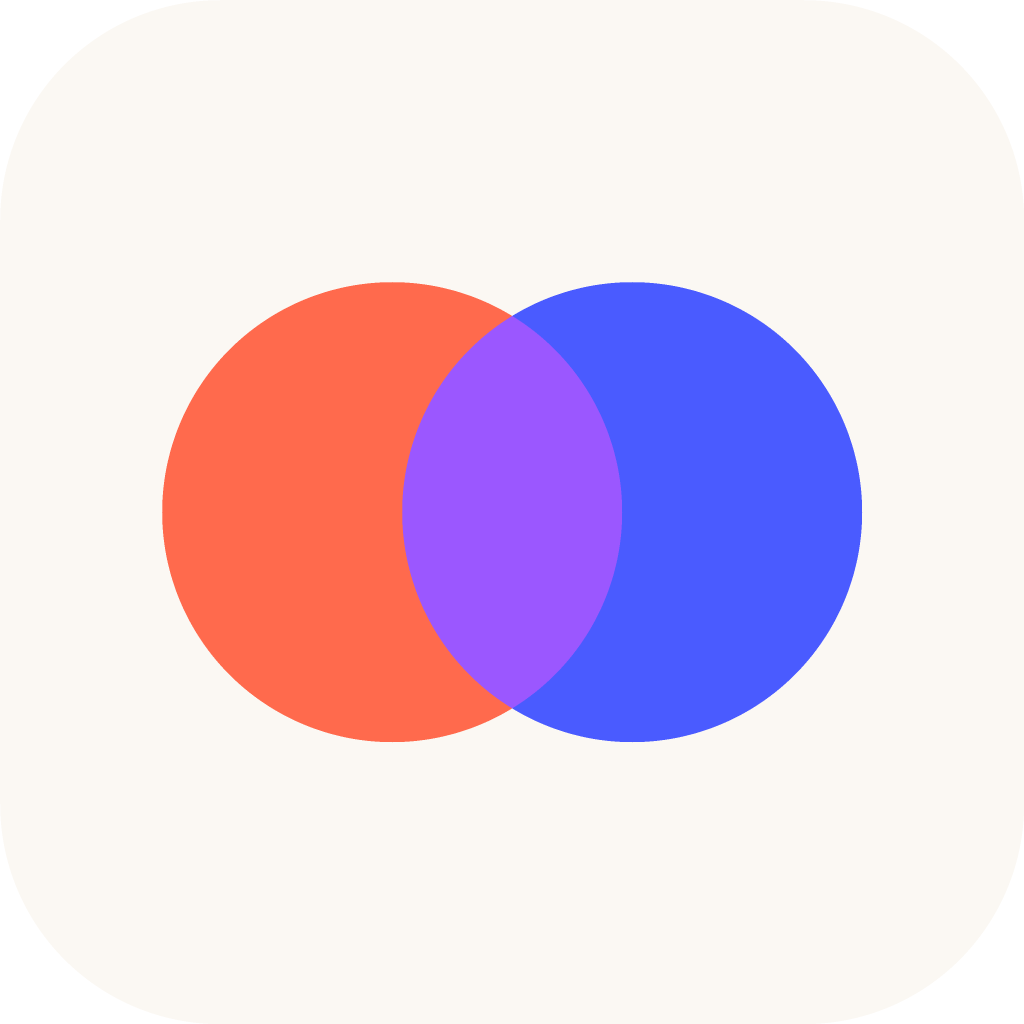
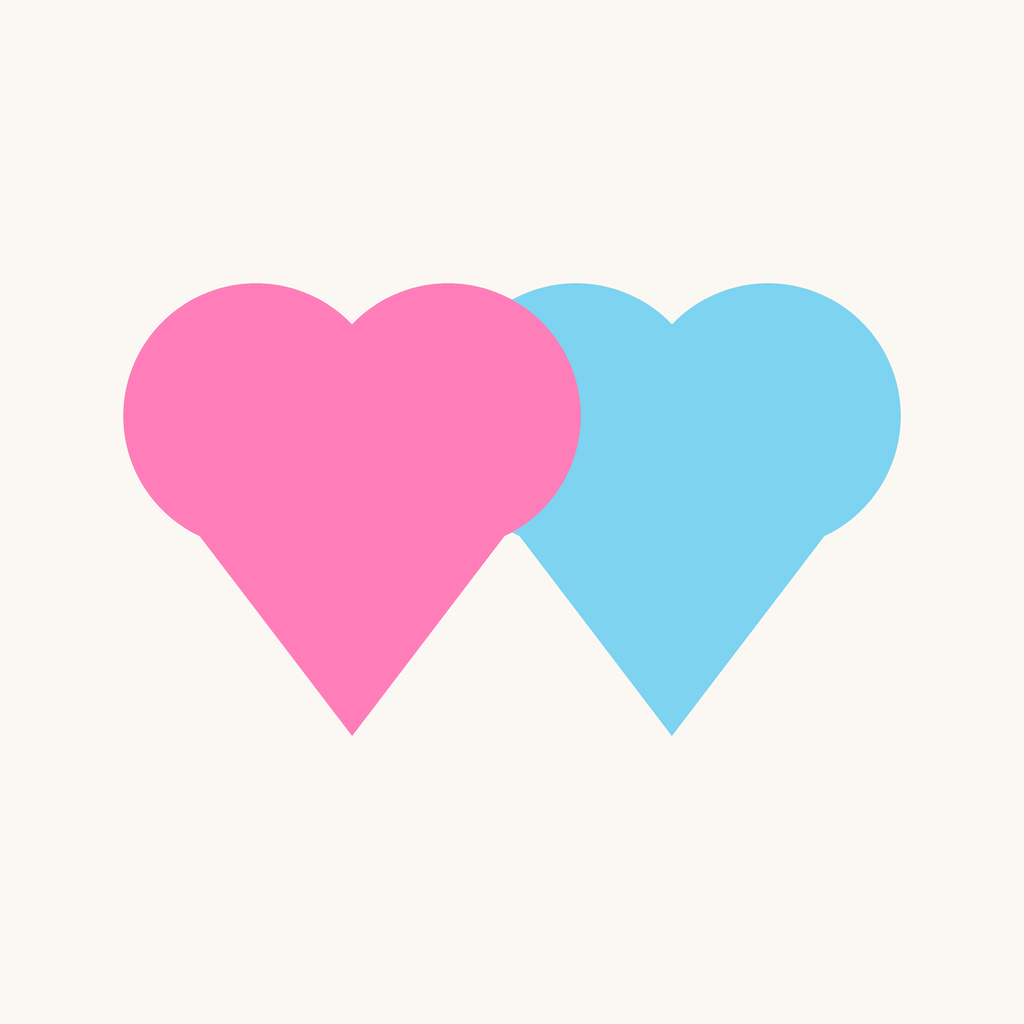
feat(ui): 하트 앱 아이콘 + 홈 배경 전체화면 개편
앱 아이콘
- icon/favicon/splash/adaptive(foreground·background·monochrome)를
  새 하트 마크로 재생성. 앱 안 DoublyLogo 와 같은 구성(원2+삼각)이라
  아이콘과 인앱 마크가 일치한다

홈 화면
- 배경화면이 상단 220px 카드 안에만 보이던 것을 화면 전체로 확장.
  고정 레이어라 피드를 스크롤해도 배경이 남아 '벽지'처럼 보인다
- 스크림 그라디언트(위 옅게→아래 진하게)로 사진 밝기와 무관하게
  흰 글씨 대비를 보장하고, 카드가 배경에서 떠 보이게 한다
- 히어로는 카드 프레임을 벗고 배경 위에 직접 얹힌다
- 배경 위로 올라온 텍스트(혼자 시작 안내)는 흰색 고정, 빈 상태는
  카드에 얹어 가독성 확보

Claude-Session: https://claude.ai/code/session_01Wiu3T5wvYkS3Bnesn86XRf

Changed region(s): [[0.0938, 0.25, 0.9062, 0.75]]

diff --git a/frontend/src/screens/home/HomeScreen.tsx b/frontend/src/screens/home/HomeScreen.tsx
@@ -6,7 +6,6 @@ import {
   Alert,
   FlatList,
   Image,
-  ImageBackground,
   Modal,
   Pressable,
   StyleSheet,
@@ -49,6 +48,17 @@ type Props = CompositeScreenProps<
 
 // Ink 히어로 — 데이터(코랄/인디고 아바타 + 바이올렛 겹침)가 돋보이게 절제된 배경
 const GRADIENT: [string, string, string] = ['#1B1D3A', '#14162B', '#0D0F22'];
+
+/**
+ * 배경 위 스크림 — 위(히어로)는 옅게 두어 배경 사진이 살고,
+ * 아래(피드)로 갈수록 진해져 카드가 배경에서 떠 보인다.
+ * 사진 밝기와 무관하게 흰 글씨 대비를 보장하려고 검정 기반으로 고정한다(테마 무관).
+ */
+const SCRIM: [string, string, string] = [
+  'rgba(0,0,0,0.28)',
+  'rgba(0,0,0,0.45)',
+  'rgba(0,0,0,0.70)',
+];
 const QUICK_EMOJIS = ['❤', '🥰', '😆', '👍', '💪'];
 
 function daysTogether(connectedAt?: string | null): number {
@@ -287,18 +297,8 @@ export function HomeScreen({ navigation }: Props) {
   // ---- 상단 대시보드 헤더 ----
   const hero = (
     <View>
-      <View style={styles.heroWrap}>
-        {bgUrl ? (
-          <ImageBackground source={{ uri: bgUrl }} style={styles.hero} imageStyle={styles.heroImg}>
-            <View style={styles.heroOverlay} />
-            {renderHeroContent()}
-          </ImageBackground>
-        ) : (
-          <LinearGradient colors={GRADIENT} style={styles.hero} start={{ x: 0, y: 0 }} end={{ x: 1, y: 1 }}>
-            {renderHeroContent()}
-          </LinearGradient>
-        )}
-      </View>
+      {/* 배경은 화면 전체를 채우므로(아래 return 참고) 여기서는 내용만 얹는다 */}
+      {renderHeroContent()}
 
       {connected ? (
         <View style={styles.actionRow}>
@@ -390,7 +390,33 @@ export function HomeScreen({ navigation }: Props) {
   }
 
   return (
-    <SafeAreaView style={styles.safe} edges={['top']}>
+    <View style={styles.root}>
+      {/*
+        배경화면을 화면 전체에 깐다 — 예전에는 상단 220px 카드 안에만 보였다.
+        고정 레이어라 피드를 스크롤해도 배경은 그대로 있어 '벽지' 처럼 보인다.
+      */}
+      {bgUrl ? (
+        <Image source={{ uri: bgUrl }} style={StyleSheet.absoluteFill} resizeMode="cover" />
+      ) : (
+        <LinearGradient
+          colors={GRADIENT}
+          style={StyleSheet.absoluteFill}
+          start={{ x: 0, y: 0 }}
+          end={{ x: 1, y: 1 }}
+        />
+      )}
+      {/*
+        스크림 — 사진이 밝든 어둡든 흰 글씨(히어로)가 읽혀야 하고, 아래로 갈수록
+        진해져 카드가 배경에서 분리돼 보인다. 터치는 통과시킨다.
+      */}
+      <LinearGradient
+        colors={SCRIM}
+        locations={[0, 0.4, 1]}
+        style={StyleSheet.absoluteFill}
+        pointerEvents="none"
+      />
+
+      <SafeAreaView style={styles.safe} edges={['top']}>
       <FlatList
         data={connected ? items : []}
         keyExtractor={itemKey}
@@ -404,11 +430,14 @@ export function HomeScreen({ navigation }: Props) {
         ListHeaderComponent={hero}
         ListEmptyComponent={
           feedLoading ? null : connected ? (
-            <EmptyState
-              icon="timeline-text-outline"
-              title="아직 기록이 없어요"
-              description={'운동·식단·맛집을 기록하거나\n첫 일상을 남겨보세요!'}
-            />
+            // 배경 사진 위에서도 읽히도록 카드에 얹는다 (EmptyState 는 테마색 텍스트다)
+            <Card elevation="sm" style={styles.emptyCard}>
+              <EmptyState
+                icon="timeline-text-outline"
+                title="아직 기록이 없어요"
+                description={'운동·식단·맛집을 기록하거나\n첫 일상을 남겨보세요!'}
+              />
+            </Card>
           ) : (
             /* 미연결 첫인상 — 연결 카드 아래가 텅 비어 보이지 않게, 혼자서도
                시작할 수 있는 행동을 안내한다 (FAB 액션시트와 같은 목적지) */
@@ -474,7 +503,8 @@ export function HomeScreen({ navigation }: Props) {
           </Pressable>
         </Pressable>
       </Modal>
-    </SafeAreaView>
+      </SafeAreaView>
+    </View>
   );
 }
 
@@ -497,15 +527,13 @@ function CoupleProfile({ name, imageUrl, done, color }: { name: string; imageUrl
 }
 
 const styles = StyleSheet.create({
-  safe: { flex: 1, backgroundColor: colors.background },
+  // 배경(사진/그라디언트)이 화면 전체를 채우므로 그 위 레이어는 모두 투명이다
+  root: { flex: 1, backgroundColor: colors.background },
+  safe: { flex: 1, backgroundColor: 'transparent' },
   list: { paddingHorizontal: spacing.lg, paddingBottom: spacing.xl },
 
-  // 히어로
-  heroWrap: { marginTop: spacing.sm, borderRadius: radius.xl, overflow: 'hidden' },
-  hero: { minHeight: 220 },
-  heroImg: { borderRadius: radius.xl },
-  heroOverlay: { position: 'absolute', top: 0, left: 0, right: 0, bottom: 0, backgroundColor: 'rgba(0,0,0,0.28)' },
-  heroContent: { padding: spacing.lg },
+  // 히어로 — 카드 프레임 없이 배경 위에 바로 얹힌다
+  heroContent: { paddingHorizontal: spacing.xs, paddingTop: spacing.sm, paddingBottom: spacing.lg },
   topBar: { flexDirection: 'row', justifyContent: 'space-between', alignItems: 'center' },
   profileBtn: { borderRadius: radius.pill, borderWidth: 2, borderColor: 'rgba(255,255,255,0.6)' },
   bgBtn: {
@@ -572,12 +600,15 @@ const styles = StyleSheet.create({
   },
   connectBtnText: { color: colors.primaryDark, fontWeight: '800', fontSize: fontSize.body },
 
+  emptyCard: { paddingVertical: spacing.md },
+
   // 미연결 첫인상 — 혼자서도 시작할 수 있는 행동 안내
   soloGuide: { marginTop: spacing.lg },
   soloTitle: {
     fontSize: fontSize.caption,
     fontWeight: '700',
-    color: colors.textSecondary,
+    // 배경 사진 위에 놓이므로 테마색이 아니라 흰색 고정
+    color: 'rgba(255,255,255,0.92)',
     marginBottom: spacing.sm,
     marginLeft: spacing.xs,
   },
